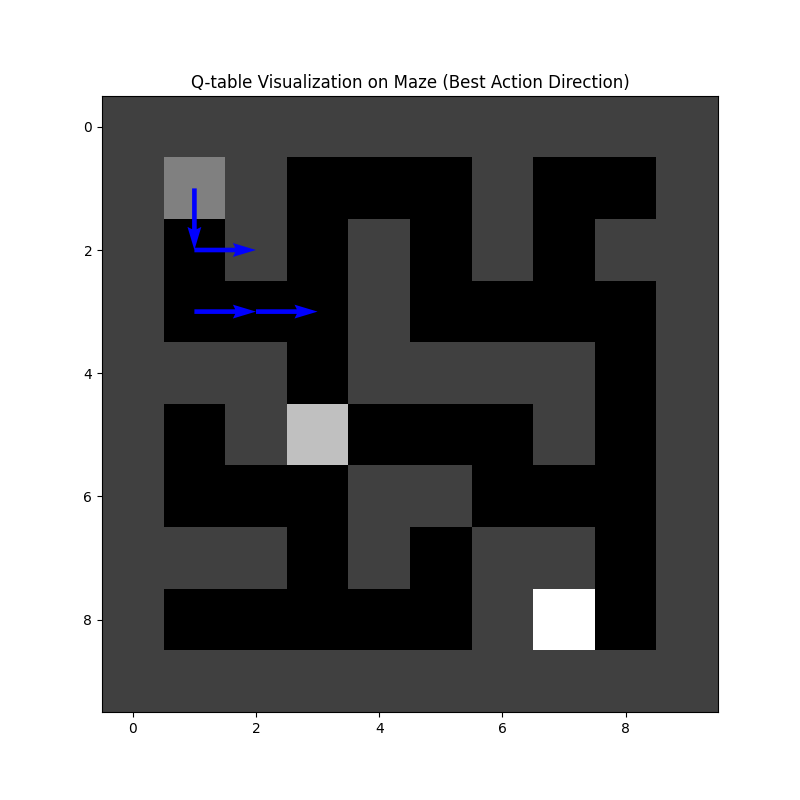
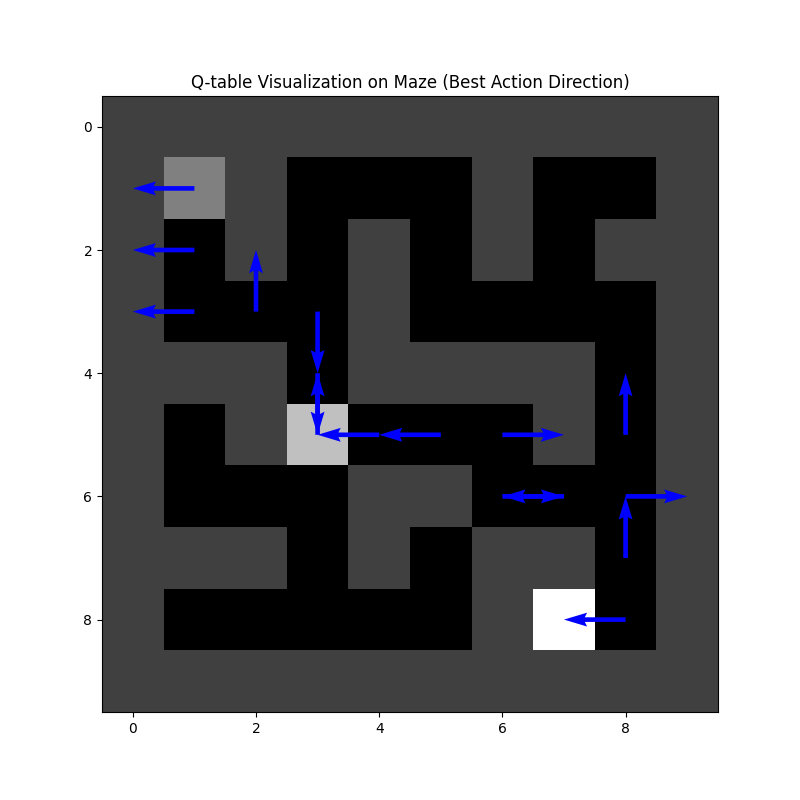
reinforcement_revisits_work

diff --git a/reinforce_improved_revisits.py b/reinforce_improved_revisits.py
@@ -13,11 +13,11 @@ import matplotlib.pyplot as plt
 
 def softmax(x):
     """Compute softmax values for each set of scores in x."""
-    e_x = np.exp((x - np.max(x))/0.4)  # subtract max for numerical stability
+    e_x = np.exp((x - np.max(x))/0.3)  # subtract max for numerical stability
     return e_x / e_x.sum(axis=0)
 
 class REINFORCEAgentOptimized:
-    def __init__(self, env, learning_rate=0.04, gamma=0.9, batch_size=20):
+    def __init__(self, env, learning_rate=0.01, gamma=0.92, batch_size=10):
         self.env = env
         self.gamma = gamma
         self.learning_rate = learning_rate  # Increased learning rate for faster updates
@@ -44,7 +44,7 @@ class REINFORCEAgentOptimized:
     
     def get_action(self, state_index, epsilon):
         # Gradually decrease epsilon for exploration
-        epsilon = max(0.1, epsilon * 0.8)  
+        epsilon = max(0.1, epsilon * 0.75)  
         if np.random.rand() < epsilon:
             action = self.env.action_space.sample()  # Exploration
         else:
@@ -52,8 +52,8 @@ class REINFORCEAgentOptimized:
             action = np.random.choice(self.env.action_space.n, p=action_probabilities)
         return action
 
-    def train(self, total_episodes=2000, max_steps=100, display_interval=20, epsilon_decay=0.995):
-        epsilon = 1.0  
+    def train(self, total_episodes=2000, max_steps=100, display_interval=20, epsilon_decay=0.99):
+        epsilon = 1 
         accumulated_rewards = []
         accumulated_gradients = []
         best_reward = -float('inf')  # Track the best reward for adaptive epsilon decay
@@ -83,7 +83,7 @@ class REINFORCEAgentOptimized:
 
                 # Reduce penalties to avoid over-restriction
                 if episode_visits[pos] > 1:
-                    reward -= 0.5  # Less penalty for revisits
+                    reward -= 1  # Less penalty for revisits
                 
 
                 # Store action and rewards
@@ -94,6 +94,7 @@ class REINFORCEAgentOptimized:
                 state = new_state
                 
                 if done:
+                    reward += 10
                     break
 
             epsilon = max(0.1, epsilon * epsilon_decay)
@@ -135,6 +136,7 @@ class REINFORCEAgentOptimized:
                 print(f"Episode {episode+1}: Total Reward = {cumulative_reward}")
                 # Log or print policy for a specific state
                 print(f"Policy for state [0, 0]: {self.policy[self.to_state_index((0, 0)), :]}")  # Example
+                print(discounted_rewards)
 
     def update_policy_batch(self, accumulated_gradients):
         for states, actions, rewards in accumulated_gradients:
